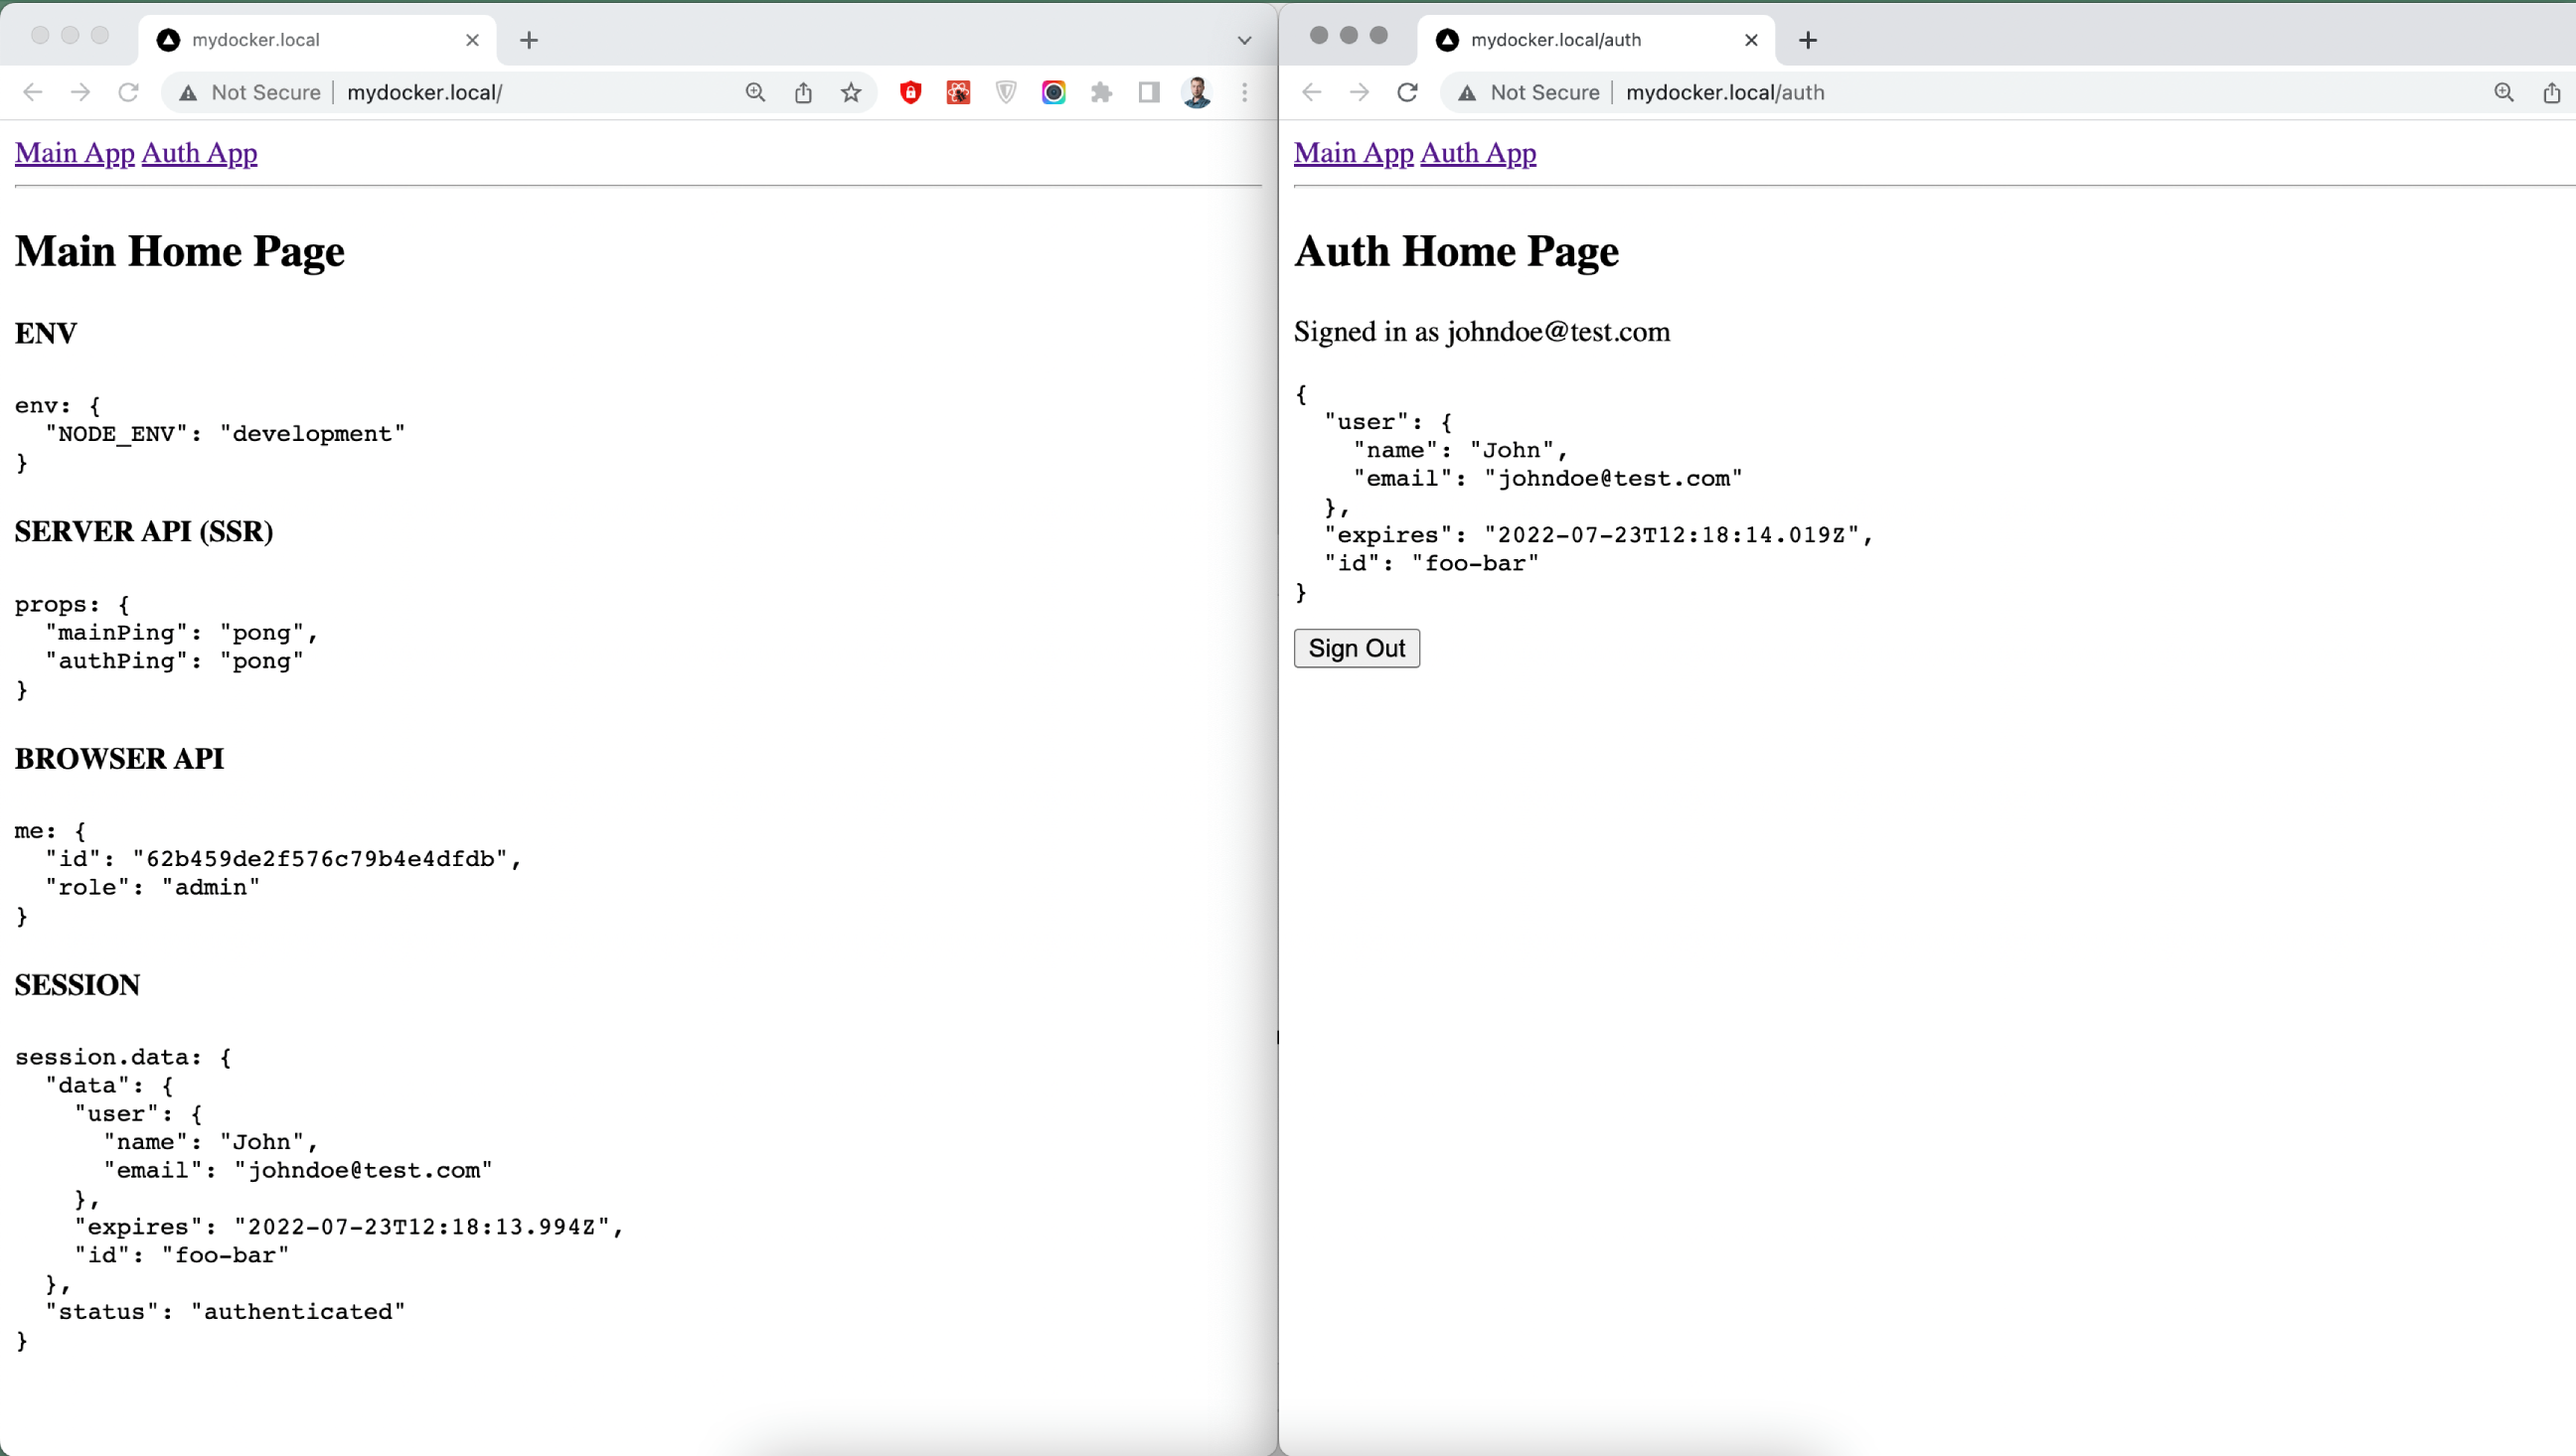
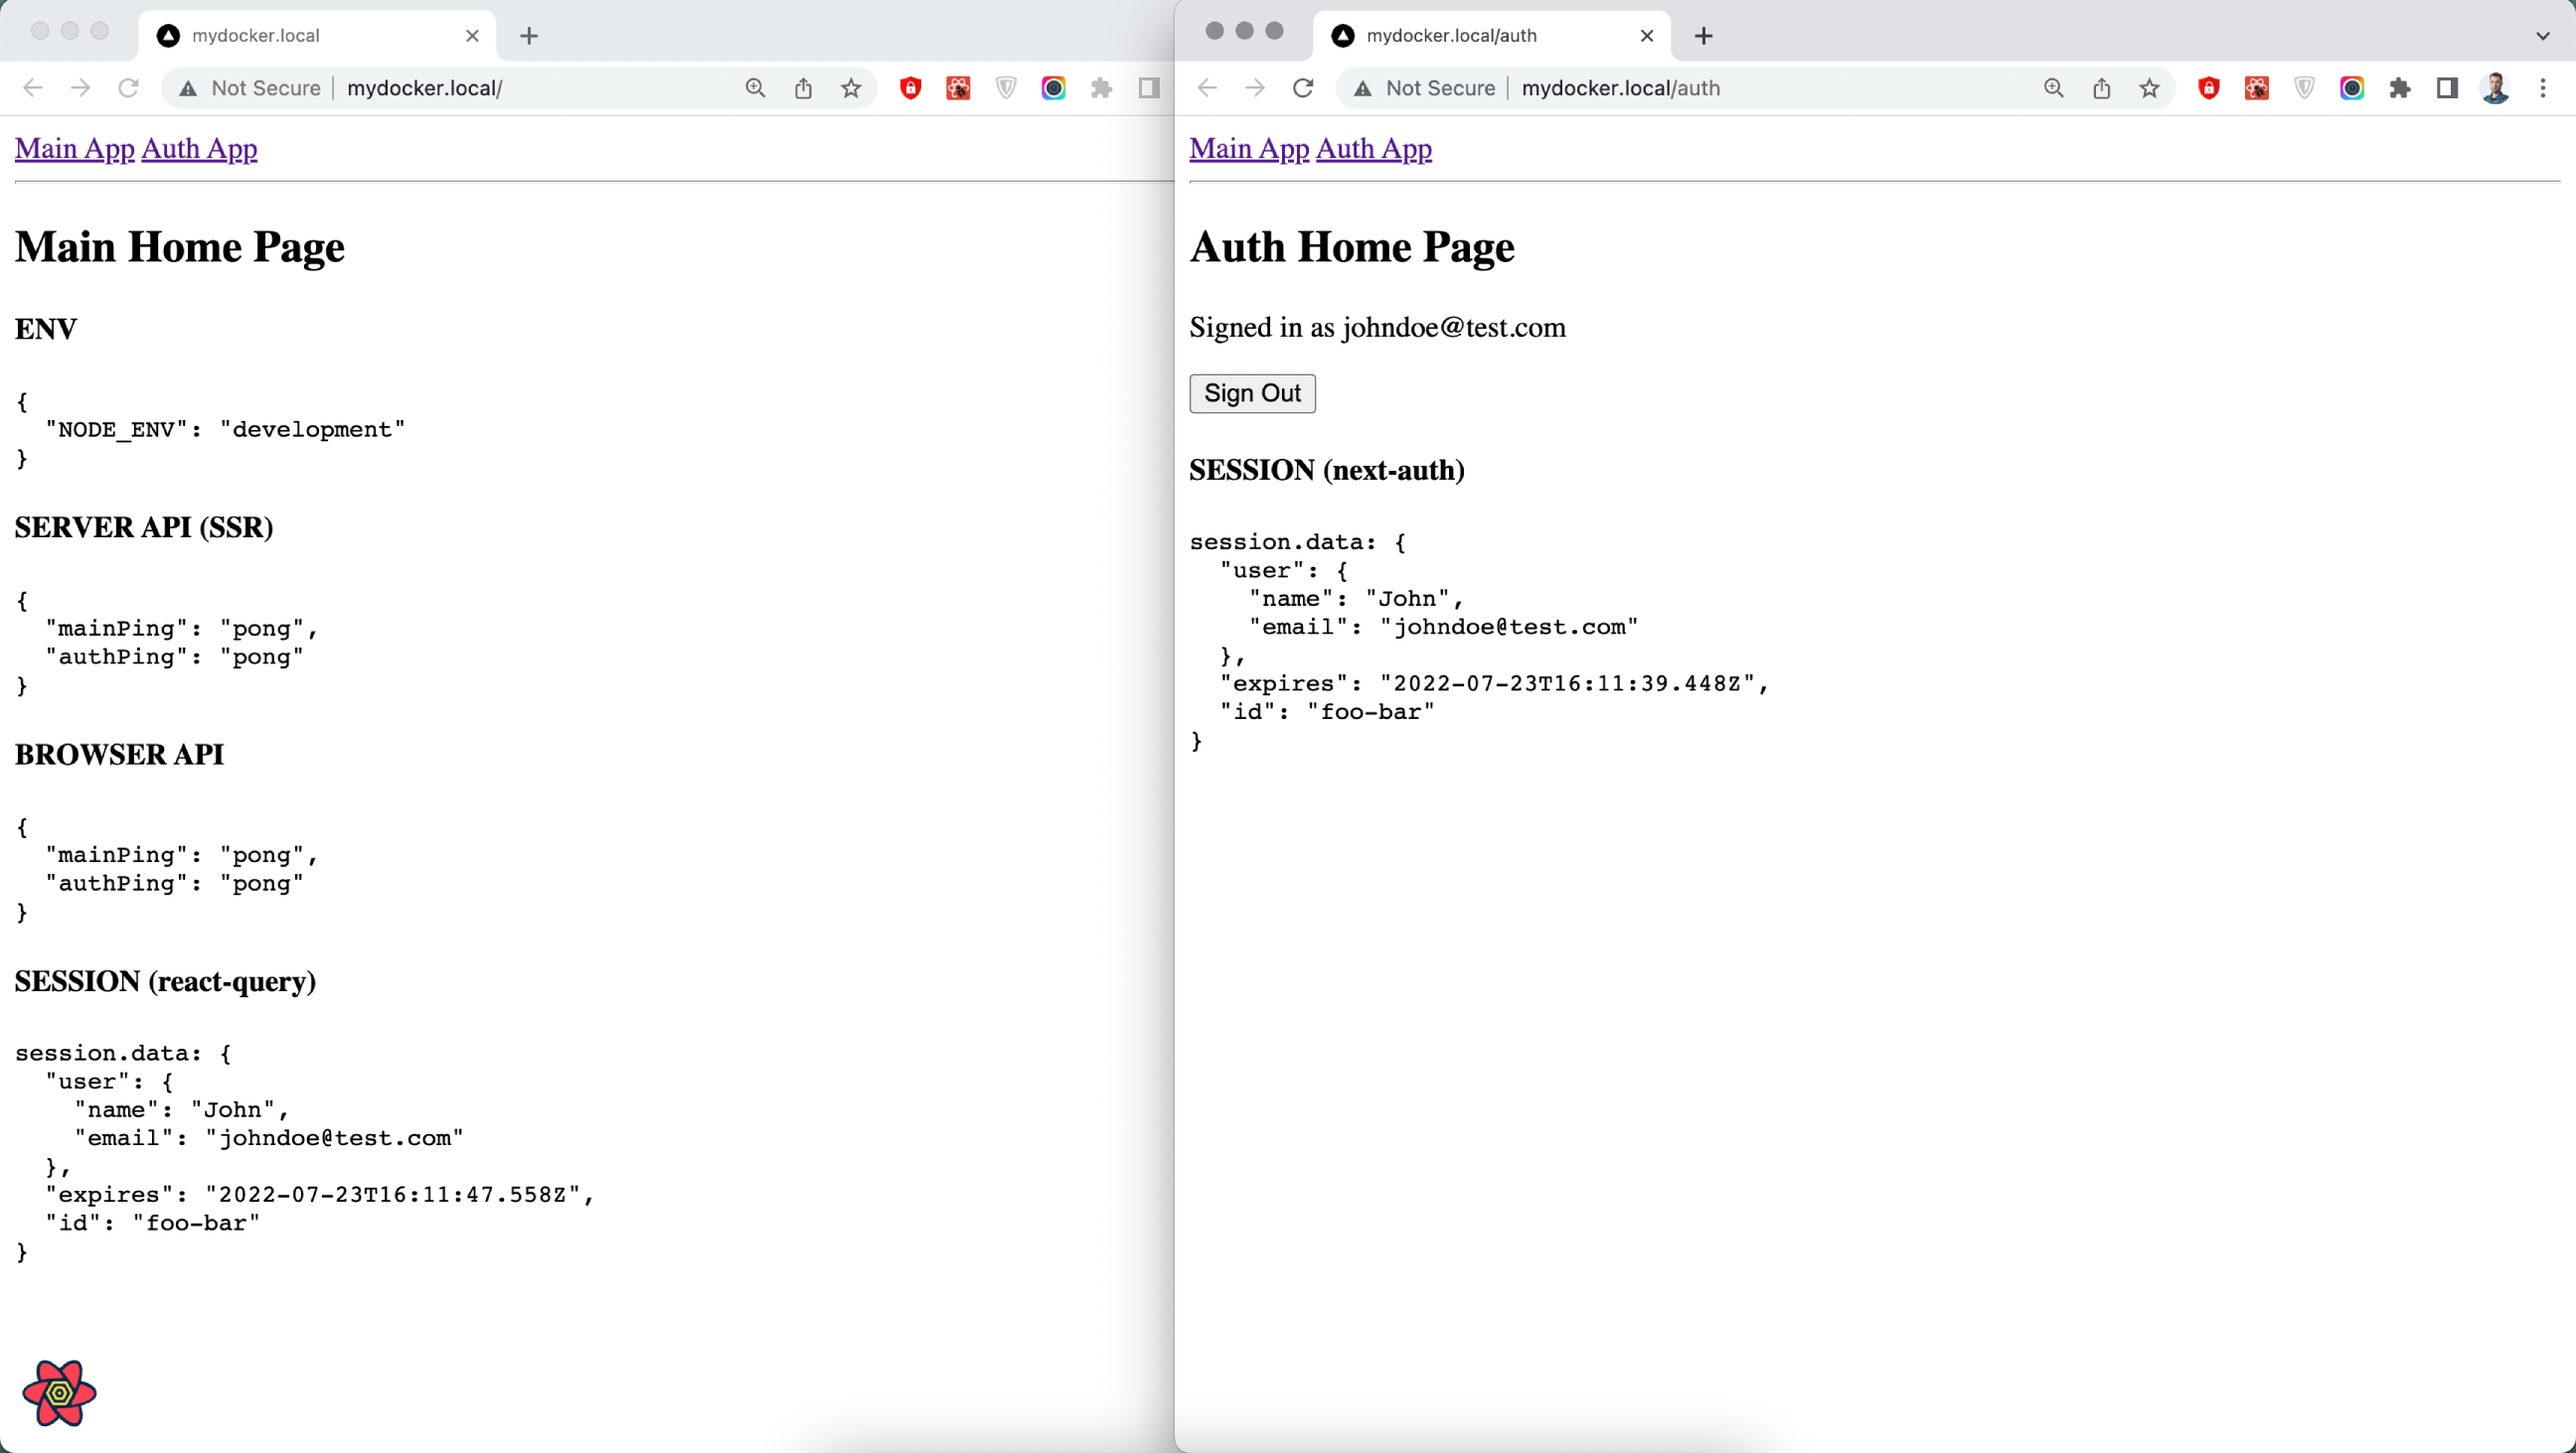
Update preview

diff --git a/next-auth/pages/index.tsx b/next-auth/pages/index.tsx
@@ -4,7 +4,8 @@ import Link from "next/link"
 import {signIn, signOut, useSession} from "next-auth/react"
 
 export default function Auth() : JSX.Element {
-  const {data: session} = useSession()
+  console.log("@ Auth")
+  const session = useSession()
 
   return <>
     <a href="/">Main App</a> <a href="/auth">Auth App</a>
@@ -12,14 +13,11 @@ export default function Auth() : JSX.Element {
     <h2>Auth Home Page</h2>
     <main>
       {
-        session ? (
+        session.data ? (
           <>
             <p>
-              Signed in as {session.user?.email}
+              Signed in as {session.data.user?.email}
             </p>
-            <pre><code>
-              {JSON.stringify(session, null, 2)}
-            </code></pre>
             <button onClick={() => signOut()}>Sign Out</button>
           </>
         ) : (
@@ -31,6 +29,15 @@ export default function Auth() : JSX.Element {
           </>
         )
       }
+
+      <h4>SESSION (next-auth)</h4>
+      <pre><code>
+        session.data: {
+          session.status == "loading"
+            ? "..."
+            : JSON.stringify(session.data, null, 2)
+        }
+      </code></pre>
     </main>
   </>
 }

diff --git a/next-auth/next.config.js b/next-auth/next.config.js
@@ -4,7 +4,7 @@ const {
 } = process.env
 
 module.exports = {
-  reactStrictMode: true,
+  reactStrictMode: false,
   // env: {
   //   HOST,
   // },
